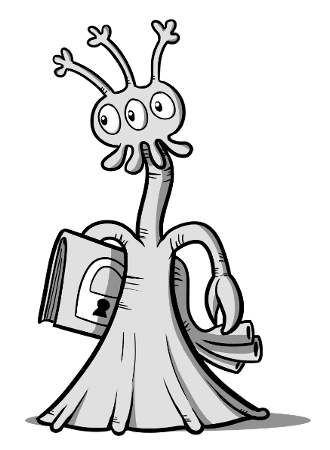
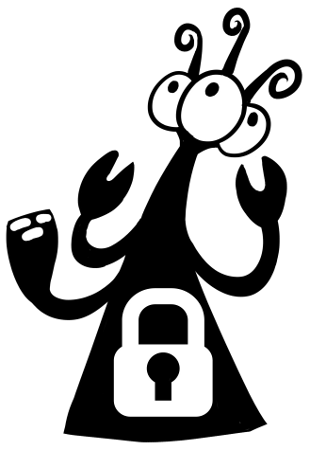
New yithian image and link to the landing page in server
These changes take place in the landing page of the web client.

diff --git a/yithwebclient/views.py b/yithwebclient/views.py
@@ -29,6 +29,7 @@ def index(request):
     if 'yith_google_analytics' in request.registry.settings:
         google_analytics = request.registry.settings['yith_google_analytics']
     return {'server_authorization_endpoint': url,
+            'server_host': request.registry.settings['yith_server'],
             'google_analytics': google_analytics, }
 
 
